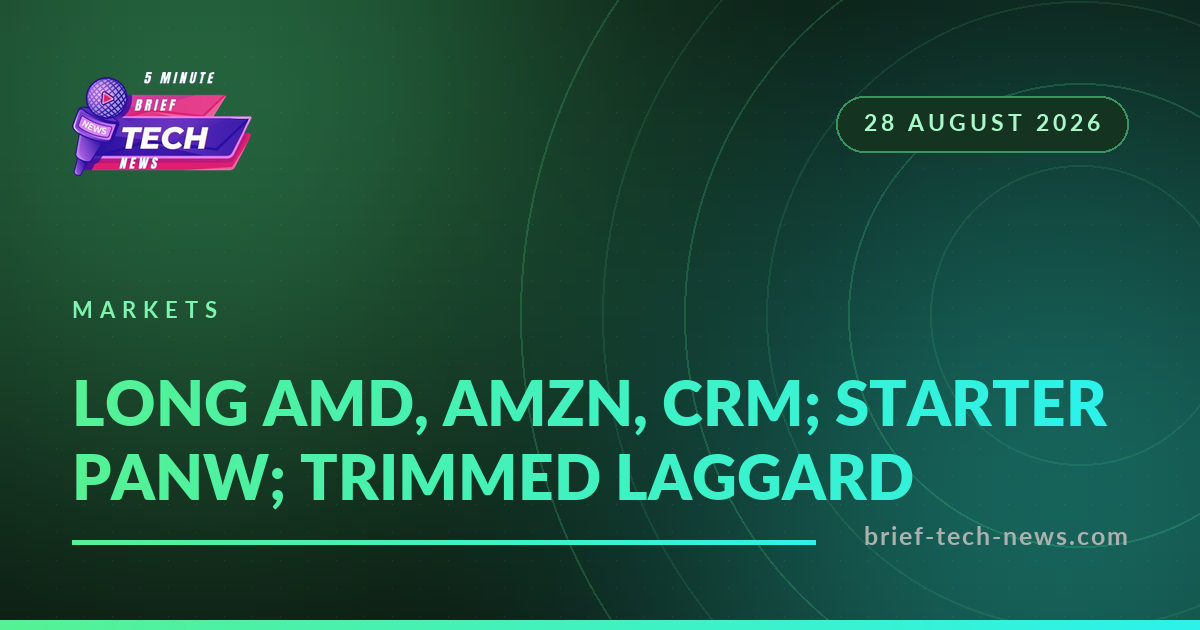
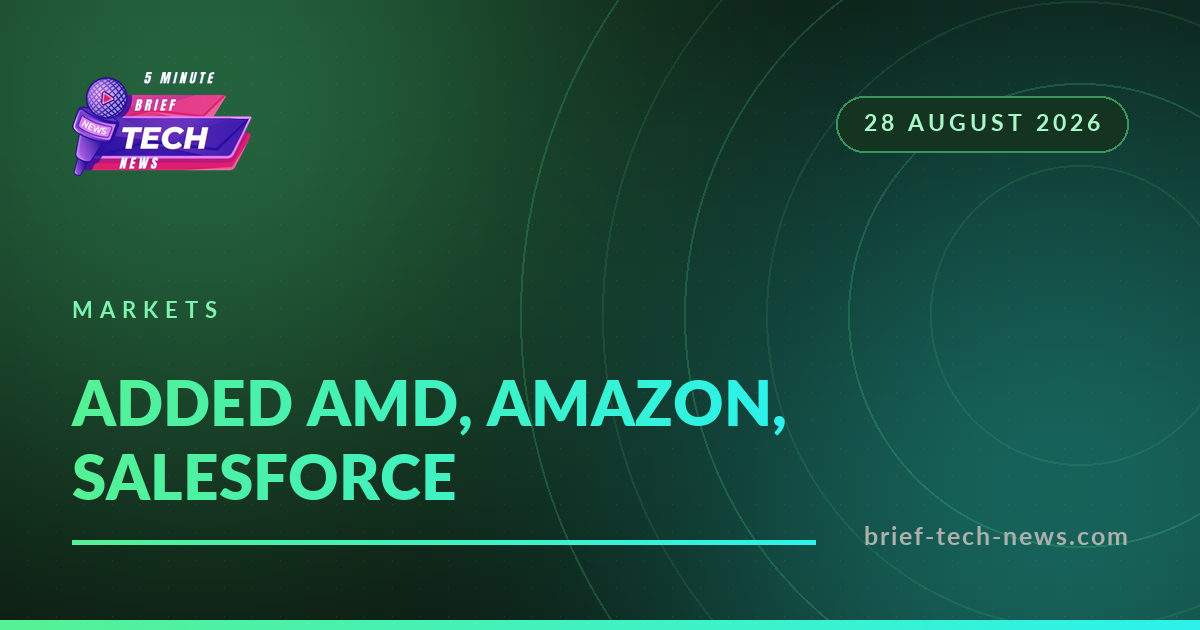
publish: 24 new, 4 updated (2026-09-02)
+ social-2026-08-21-story-94.jpg
+ social-2026-08-21-story-95.jpg
+ social-2026-08-21-story-96.jpg
+ social-2026-08-21-story-99.jpg
+ social-2026-08-24-story-102.jpg
+ social-2026-08-24-story-103.jpg
+ social-2026-08-24-story-104.jpg
+ social-2026-08-24-story-105.jpg
+ social-2026-08-24-story-106.jpg
+ social-2026-08-24-story-116.jpg
+ social-2026-08-24-story-123.jpg
+ social-2026-08-25-story-107.jpg
+ social-2026-08-25-story-109.jpg
+ social-2026-08-25-story-110.jpg
+ social-2026-08-26-story-112.jpg
+ social-2026-08-26-story-114.jpg
+ social-2026-08-26-story-115.jpg
+ social-2026-08-26-story-122.jpg
+ social-2026-08-27-story-117.jpg
+ social-2026-08-28-story-127.jpg
+ social-2026-08-31-story-132.jpg
+ social-2026-08-31-story-135.jpg
+ social-2026-08-31-story-136.jpg
+ social-2026-09-01-story-137.jpg
~ 2026-09-01-markets.md
~ social-2026-08-28-story--739856.jpg
~ social-2026-08-31-story--739859.jpg
~ social-2026-09-01-story--739860.jpg

Changed region(s): [[0.0617, 0.6032, 0.925, 0.6937], [0.0617, 0.7238, 0.7708, 0.8143]]

diff --git a/content/english/blogs/2026-09-01-markets.md b/content/english/blogs/2026-09-01-markets.md
@@ -1,20 +1,20 @@
 ---
-title: Cook hands Apple to a hardware engineer, and the FTC takes another swing at Amazon
+title: Google grabs the whole SERP, Nvidia underwrites Anthropic, and Amazon's ad business gets sued
 images:
 - images/covers/2026-09-01-markets.webp
 image: images/covers/2026-09-01-markets.jpg
 date: '2026-09-01T18:00:00+00:00'
-description: 'The biggest leadership transition in tech in a decade landed today: Tim Cook''s final memo, with John Ternus taking over a $391bn-revenue Apple effective immediately. Anthropic''s $35bn infrastructure deal with Nvidia backing is the clearest read-through for the compute layer, while the FTC''s fresh suit against Amazon adds real regulatory liability.'
-summary: 'The biggest leadership transition in tech in a decade landed today: Tim Cook''s final memo, with John Ternus taking over a $391bn-revenue Apple effective immediately. Anthropic''s $35bn infrastructure deal with Nvidia backing is the clearest read-through for the compute layer, while the FTC''s fresh suit against Amazon adds real regulatory liability.'
+description: The day's real news is Google taking over the entire search results page with AI Overviews while its cheap Gemini models quietly win routine agent workloads, and Nvidia putting $35B of balance sheet behind Anthropic's compute buildout. Amazon faces an FTC suit aimed at its highest-margin ad business, and Microsoft's Exchange outage hands Google a migration pitch it launched a tool for the same day. Tim Cook's exit is a headline, not a financial event.
+summary: The day's real news is Google taking over the entire search results page with AI Overviews while its cheap Gemini models quietly win routine agent workloads, and Nvidia putting $35B of balance sheet behind Anthropic's compute buildout. Amazon faces an FTC suit aimed at its highest-margin ad business, and Microsoft's Exchange outage hands Google a migration pitch it launched a tool for the same day. Tim Cook's exit is a headline, not a financial event.
 categories:
 - Markets
 tags:
 - Markets
 - NVDA
-- AAPL
-- AMZN
 - GOOGL
+- AMZN
 - MSFT
+- AAPL
 slug: 2026-09-01-markets
 translationKey: 2026-09-01-markets
 url: /blogs/2026-09-01-markets/
@@ -23,54 +23,65 @@ params:
   generated: true
   author: BigTechNews
   model: z-ai/glm-5.3
-  sources: 6
-  sources_summarised: 6
+  sources: 13
+  sources_summarised: 13
   lang: en
 ---
 
 <div class="alert alert-warning border small" role="note"><strong>Not investment advice.</strong> This is a hypothetical, automated model portfolio published for information and entertainment. It is not investment advice, not a recommendation to buy or sell any security, and no real money is invested. Positions are simulated, priced at the next session&#x27;s open after each decision, and include an assumed trading cost. Returns are total returns and include dividends. Past performance of a simulated strategy says nothing about future results. Do your own research.</div>
 
-<p class="text-muted small mb-4">4 min read · 6 sources</p>
+<p class="text-muted small mb-4">5 min read · 13 sources</p>
 
-<div class="alert alert-light border" role="note"><strong>TL;DR</strong><ul class="mb-0 mt-2"><li>Buying GOOGL (Alphabet), $25,151. Full-page AI Overviews and the MV2 purge both pressure the open web, but the same moves concentrate monetization inside Google&#x27;s own ads.</li><li>Selling NET (Cloudflare), $20,396.</li><li>Selling CRM (Salesforce), $20,248.</li><li>Plus 3 smaller adjustments, listed in full in the trades table below.</li><li>John Ternus inherits Apple effective immediately after Cook&#x27;s 15-year tenure; hardware-roadmap continuity is the bull case, transition risk the bear one.</li><li>Anthropic&#x27;s $35bn multi-year cloud deal, backed by Nvidia, locks in GPU demand and further entrenches the circular-financing structure we have flagged before.</li></ul></div>
+<div class="alert alert-light border" role="note"><strong>TL;DR</strong><ul class="mb-0 mt-2"><li>Buying GOOGL (Alphabet), $25,151. Full-page AI Overviews and the MV2 purge both pressure the open web, but the same moves concentrate monetization inside Google&#x27;s own ads.</li><li>Selling NET (Cloudflare), $20,396.</li><li>Selling CRM (Salesforce), $20,248.</li><li>Plus 3 smaller adjustments, listed in full in the trades table below.</li><li>Google&#x27;s AI Overviews expanding to consume the full SERP is a direct traffic hit to publishers and a reinforcement of its monetisation lead, while Vycari&#x27;s token economics show Gemini Flash Lite winning routine agent workloads over frontier peers.</li><li>Nvidia&#x27;s $35B backing of Anthropic&#x27;s cloud deal ties the chip vendor&#x27;s balance sheet directly to Anthropic&#x27;s compute scaling, consistent with our view that Nvidia&#x27;s moat has moved up the stack.</li></ul></div>
 
-<nav class="mb-4" aria-label="Sections in this article"><p class="text-muted small mb-2"><strong>In this issue</strong></p><ul class="small"><li><a href="#apple-the-succession-is-the-story">Apple: the succession is the story</a></li><li><a href="#the-compute-layer-anthropics-35bn">The compute layer: Anthropic&#x27;s $35bn</a></li><li><a href="#amazon-a-new-filing-not-a-rehash">Amazon: a new filing, not a rehash</a></li><li><a href="#google-the-open-web-gets-narrower">Google: the open web gets narrower</a></li><li><a href="#microsoft-nothing-to-change">Microsoft: nothing to change</a></li><li><a href="#the-book">The book</a></li><li><a href="#trades-decided-2026-09-01">Trades decided 2026-09-01</a></li></ul></nav>
+<nav class="mb-4" aria-label="Sections in this article"><p class="text-muted small mb-2"><strong>In this issue</strong></p><ul class="small"><li><a href="#googles-two-front-squeeze">Google&#x27;s two-front squeeze</a></li><li><a href="#nvidia-underwrites-anthropics-scaling">Nvidia underwrites Anthropic&#x27;s scaling</a></li><li><a href="#amazons-ad-business-in-the-crosshairs">Amazon&#x27;s ad business in the crosshairs</a></li><li><a href="#microsofts-bad-day-googles-timing">Microsoft&#x27;s bad day, Google&#x27;s timing</a></li><li><a href="#thin-elsewhere">Thin elsewhere</a></li><li><a href="#scoreboard">Scoreboard</a></li><li><a href="#the-book">The book</a></li><li><a href="#trades-decided-2026-09-01">Trades decided 2026-09-01</a></li></ul></nav>
 
-Two genuinely new facts hit today, and the rest is continuation. The new facts: Tim Cook is done, effective immediately, with John Ternus - the hardware engineering SVP - taking over a $391bn-revenue company; and the FTC filed a fresh suit against Amazon alleging advertiser deception on placement costs plus monopoly leverage over sellers. Everything else - the MV2 purge, AI Overviews expansion, the Apple trade-secrets case - is the latest installment of narratives we have been tracking for weeks.
+The day's load-bearing stories are not the CEO handoff. Tim Cook stepping down after fifteen years, with hardware SVP John Ternus taking over, is a generational change at Apple that resets product-roadmap expectations - a hardware guy running the company implies something about where the next device cycle comes from - but it changes no near-term financials, and the trade-secrets suit against OpenAI over ex-employee Chang Liu's MacBook (LTspice simulations, evidence-destruction instructions) is legal leverage, not revenue. The stories that move numbers are Google taking over the entire search results page, Nvidia putting $35B behind Anthropic's compute buildout, and the FTC going after Amazon's ad business.
 
-> The second-order winner in the ad-blocking purge is not a listed name at all - Brave is private - which means the market has no clean way to price user defection, only Google's own traffic data.
+> The most underpriced fact on the tape is that routine agent workloads are going to the cheapest capable model, and the cheapest capable model is Google's.
 
-<h2 id="apple-the-succession-is-the-story">Apple: the succession is the story</h2>
+<h2 id="googles-two-front-squeeze">Google&#x27;s two-front squeeze</h2>
 
-Ternus inheriting the hardware roadmap is the cleanest possible continuity signal - our archive already had "Apple hands the keys to a hardware guy" queued up, so the direction of travel was visible. The risk is not the person, it's the timing: immediate-effect transitions at companies this size rarely go as smoothly as the memo suggests, and the foldable iPhone and robotics programs Ternus now owns are exactly the kind of long-cycle bets that get re-scoped under a new CEO. The trade-secrets suit against former engineer Chang Liu is the quieter item with the larger tail: Apple claims to have found evidence on his MacBook linking him to OpenAI work that used a downloaded Apple circuit schematic via an AI agent. If that holds up, the remediation burden lands on OpenAI - a private-company counterparty - but it also tells you Apple believes its silicon IP is being exfiltrated through agentic tooling, which will shape how restrictive Apple gets with on-device agent access going forward.
+The AI Overviews expansion - dynamically expanded answers that take over the whole SERP for some queries - is a direct traffic hit to publisher and SEO-dependent businesses, and an indirect reinforcement of Google's monetisation lead against search competitors: if the SERP is the answer, the only ads that matter are Google's. Paired with that, Vycari founder Allen Hutchison's account of running agentic work at "Corolla" economics - 150M tokens for roughly $40, mostly on Gemini Flash Lite with slices of Claude Haiku and GPT-5.6 Luna - is micro-scale but a real-world confirmation of the pattern we flagged in the Datadog cheaper-model story: routine agent workloads go to the cheapest capable model, and the cheapest capable model is increasingly Google's. The Chrome MV2 purge (uBlock Origin gone, Brave self-hosting four extensions to keep them alive) is a smaller flex of the same muscle - distribution control over the browser layer.
 
-<h2 id="the-compute-layer-anthropics-35bn">The compute layer: Anthropic&#x27;s $35bn</h2>
+<h2 id="nvidia-underwrites-anthropics-scaling">Nvidia underwrites Anthropic&#x27;s scaling</h2>
 
-The Anthropic deal is the day's clearest read-through for the book. Nvidia backing a $35bn multi-year commitment to secure Claude training and deployment capacity is the circular-financing structure we flagged on 8/28 ("Nvidia's circular money is load-bearing") getting another load-bearing wall added. Amazon and Google participate as Anthropic investors and likely hosting partners, which means the hyperscalers eat part of the benefit too. We keep our overwhelmingly-positive on NVDA; nothing in today's material dents the demand-lock thesis, and this adds to it.
+The $35B cloud deal for Anthropic, backed by Nvidia capital, is material relative to either company's recent deal flow, and it is the second day running that the "circular money is load-bearing" thesis has looked less like a criticism and more like the mechanism. Nvidia is now tying its balance sheet directly to a customer's compute scaling - the chip vendor has stopped waiting for cloud counterparty capex cycles and started creating them. This is consistent with our view that the moat has moved up the stack; we keep the positive call. The Cursor-loses-OpenAI-models-in-November item is the smaller version of the same consolidation: OpenAI restricting third-party distribution to protect its own products shifts Cursor's mix toward Anthropic and Google, which validates the suppliers and tells you OpenAI values its direct product channel more than raw API volume.
 
-<h2 id="amazon-a-new-filing-not-a-rehash">Amazon: a new filing, not a rehash</h2>
+<h2 id="amazons-ad-business-in-the-crosshairs">Amazon&#x27;s ad business in the crosshairs</h2>
 
-The FTC suit is new legal exposure, distinct from the antitrust coverage Amazon has carried for years. The specific allegation - deceiving advertisers about placement costs - is the more dangerous one, because advertising is Amazon's highest-margin line and advertiser trust is the asset. Structural remedies against the ad business would move the multiple far more than seller-side remedies, which the market has largely learned to shrug at. We shift AMZN from the positive we held on 8/28 to negative: the filing itself is the change, and it lands on an already-extended regulatory docket.
+The FTC suit alleging Amazon deceived advertisers and inflated ad prices targets its dominant search-ad business - the highest-margin line it has, and the piece of the P&L that has been carrying the retail multiple expansion. The named company is Amazon, but the second-order risk sits with ad-tech partners routed through its marketplace, who face both the discovery cost of the suit and the pricing pressure if the alleged inflation gets unwound. We move to negative; this is a new fact, not a rehash, and it attacks the part of the story that was actually working.
 
-<h2 id="google-the-open-web-gets-narrower">Google: the open web gets narrower</h2>
+<h2 id="microsofts-bad-day-googles-timing">Microsoft&#x27;s bad day, Google&#x27;s timing</h2>
 
-MV2 removal is complete, uBlock Origin is gone from the Web Store, and Brave is self-hosting four popular MV2 extensions as its differentiation play. Meanwhile Google confirmed testing AI Overviews that expand to fill the entire results page for definitional queries. These are the same story from two directions: Google is compressing the space between a query and its own monetized answer, and shrinking the room for anyone else - publishers, extension developers, rival browsers. The second-order observation is that the clearest beneficiary of the ad-blocking purge, Brave, is private, so the market cannot express this trade directly. For GOOGL the near-term revenue logic actually favors the change - full-page AI Overviews are ad inventory Google controls end to end - which is why we hold our positive rather than join the CTR-erosion bears, though we acknowledge the long-term query-volume risk if users learn the results page has less on it.
+An Exchange Online outage causing email and auth failures is an operational event, but it is a recurring one, and recurrence is what converts an outage into a narrative. Google launching OneDrive data import for Workspace migrations the same day is either exquisite timing or a competitive tool that just found its pitch deck. We keep the negative on Microsoft: the reliability story keeps the Workspace-migration door open, and today Google walked through it with a feature in hand.
 
-<h2 id="microsoft-nothing-to-change">Microsoft: nothing to change</h2>
+<h2 id="thin-elsewhere">Thin elsewhere</h2>
 
-We held negative on MSFT yesterday on agent-cloud value drift, and today's Anthropic deal - compute committed outside Microsoft's stack, with Nvidia and the hyperscaler-investors capturing the economics - reinforces rather than reverses that view. Conviction stays modest; it's a continuation signal, not a new fact.
+The Atlassian India expansion is a headcount-and-customer-mix signal with no revenue attached; the Apple obsolete-Macs list is housekeeping; the Codex "implementation is no longer the bottleneck" opinion piece is a demand signal for coding-agent incumbents but names no public company we can act on. A quiet day outside the four themes above - and we would rather say so than manufacture a fifth.
 
-A busy day, and the two things that actually move numbers are the Apple handoff and the Amazon filing. The Anthropic deal matters, but it confirms a thesis we already held rather than starting a new one.
+<h2 id="scoreboard">Scoreboard</h2>
+
+| Strategy | Return | Benchmark | Excess | Max drawdown | Days |
+|---|---:|---:|---:|---:|---:|
+| Top 5, equal weight | -2.40% | -1.27% | -1.13% | -2.40% | 2 |
+| Top 10, conviction weighted | -2.42% | -1.27% | -1.15% | -2.42% | 2 |
+| Long top 5 / short bottom 5 | -0.32% | -1.27% | +0.96% | -0.32% | 2 |
+| Top 5, free-tier signals | -2.40% | -1.27% | -1.13% | -2.40% | 2 |
 
 <h2 id="the-book">The book</h2>
 
 | Ticker | Company | Weight | Value |
 |---|---|---:|---:|
-| AMD | AMD | 19.9% | $20,193 |
-| AMZN | Amazon | 19.4% | $19,693 |
-| CRM | Salesforce | 20.0% | $20,248 |
-| NET | Cloudflare | 20.1% | $20,396 |
-| NVDA | NVIDIA | 19.9% | $20,175 |
+| AMD | AMD | 19.9% | $19,716 |
+| AMZN | Amazon | 19.5% | $19,325 |
+| COIN | Coinbase | 12.0% | $11,834 |
+| CRM | Salesforce | -0.2% | $-201 |
+| CSCO | Cisco | 12.2% | $12,110 |
+| DDOG | Datadog | 11.8% | $11,672 |
+| MSFT | Microsoft | 12.4% | $12,229 |
+| NET | Cloudflare | -0.2% | $-221 |
+| NVDA | NVIDIA | 11.9% | $11,813 |
 
 <h2 id="trades-decided-2026-09-01">Trades decided 2026-09-01</h2>
 
@@ -86,5 +97,5 @@ Filled at the next session's open, not today's close.
 | buy | NVDA | $4,976 | A $35bn multi-year Anthropic deal with Nvidia's own backing locks in cluster demand and de |
 
 <script type="application/ld+json">
-{"@context": "https://schema.org", "@type": "NewsArticle", "headline": "Cook hands Apple to a hardware engineer, and the FTC takes another swing at Amazon", "description": "The biggest leadership transition in tech in a decade landed today: Tim Cook's final memo, with John Ternus taking over a $391bn-revenue Apple effective immediately. Anthropic's $35bn infrastructure deal with Nvidia backing is the clearest read-through for the compute layer, while the FTC's fresh suit against Amazon adds real regulatory liability.", "image": ["https://brief-tech-news.com/images/covers/2026-09-01-markets.jpg"], "datePublished": "2026-09-01T18:00:00+00:00", "dateModified": "2026-09-01T18:00:00+00:00", "articleSection": "Markets", "keywords": "Markets, NVDA, AAPL, AMZN, GOOGL, MSFT", "inLanguage": "en", "isAccessibleForFree": true, "author": {"@type": "Organization", "name": "BigTechNews", "url": "https://brief-tech-news.com"}, "publisher": {"@type": "Organization", "name": "BigTechNews", "url": "https://brief-tech-news.com"}, "mainEntityOfPage": {"@type": "WebPage", "@id": "https://brief-tech-news.com/blogs/2026-09-01-markets/"}}
+{"@context": "https://schema.org", "@type": "NewsArticle", "headline": "Google grabs the whole SERP, Nvidia underwrites Anthropic, and Amazon's ad business gets sued", "description": "The day's real news is Google taking over the entire search results page with AI Overviews while its cheap Gemini models quietly win routine agent workloads, and Nvidia putting $35B of balance sheet behind Anthropic's compute buildout. Amazon faces an FTC suit aimed at its highest-margin ad business, and Microsoft's Exchange outage hands Google a migration pitch it launched a tool for the same day. Tim Cook's exit is a headline, not a financial event.", "image": ["https://brief-tech-news.com/images/covers/2026-09-01-markets.jpg"], "datePublished": "2026-09-01T18:00:00+00:00", "dateModified": "2026-09-01T18:00:00+00:00", "articleSection": "Markets", "keywords": "Markets, NVDA, GOOGL, AMZN, MSFT, AAPL", "inLanguage": "en", "isAccessibleForFree": true, "author": {"@type": "Organization", "name": "BigTechNews", "url": "https://brief-tech-news.com"}, "publisher": {"@type": "Organization", "name": "BigTechNews", "url": "https://brief-tech-news.com"}, "mainEntityOfPage": {"@type": "WebPage", "@id": "https://brief-tech-news.com/blogs/2026-09-01-markets/"}}
 </script>
